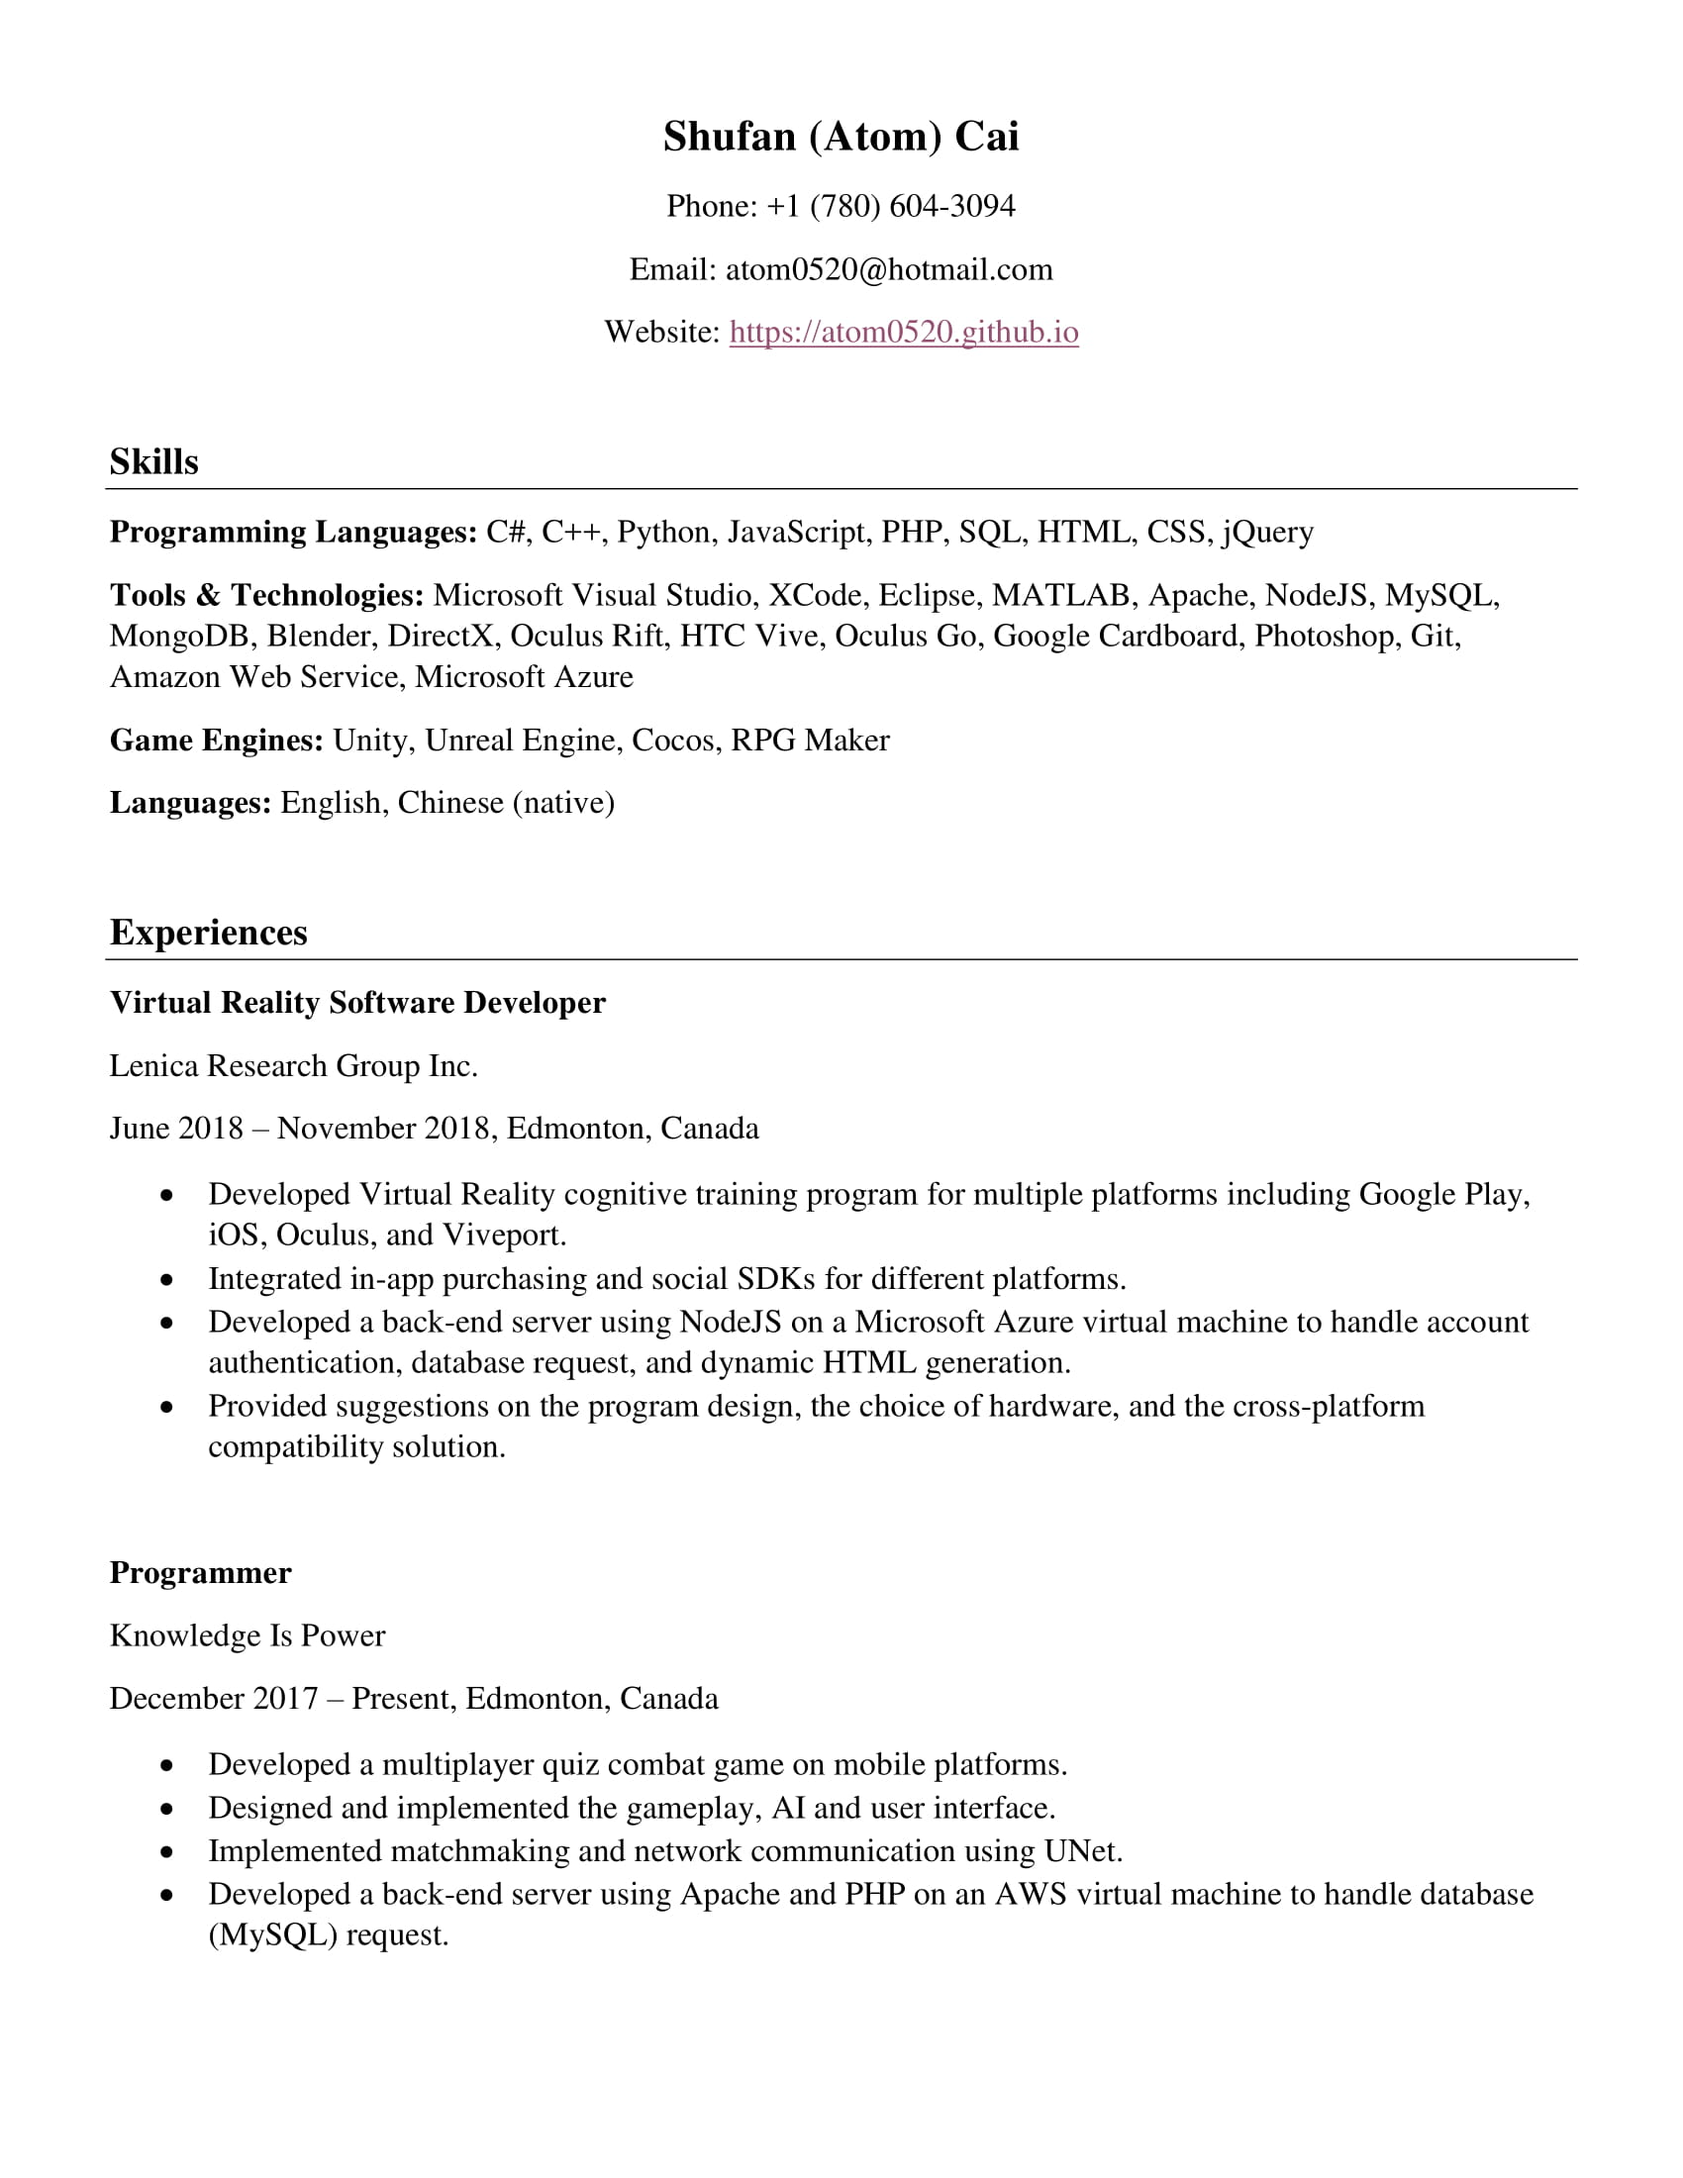
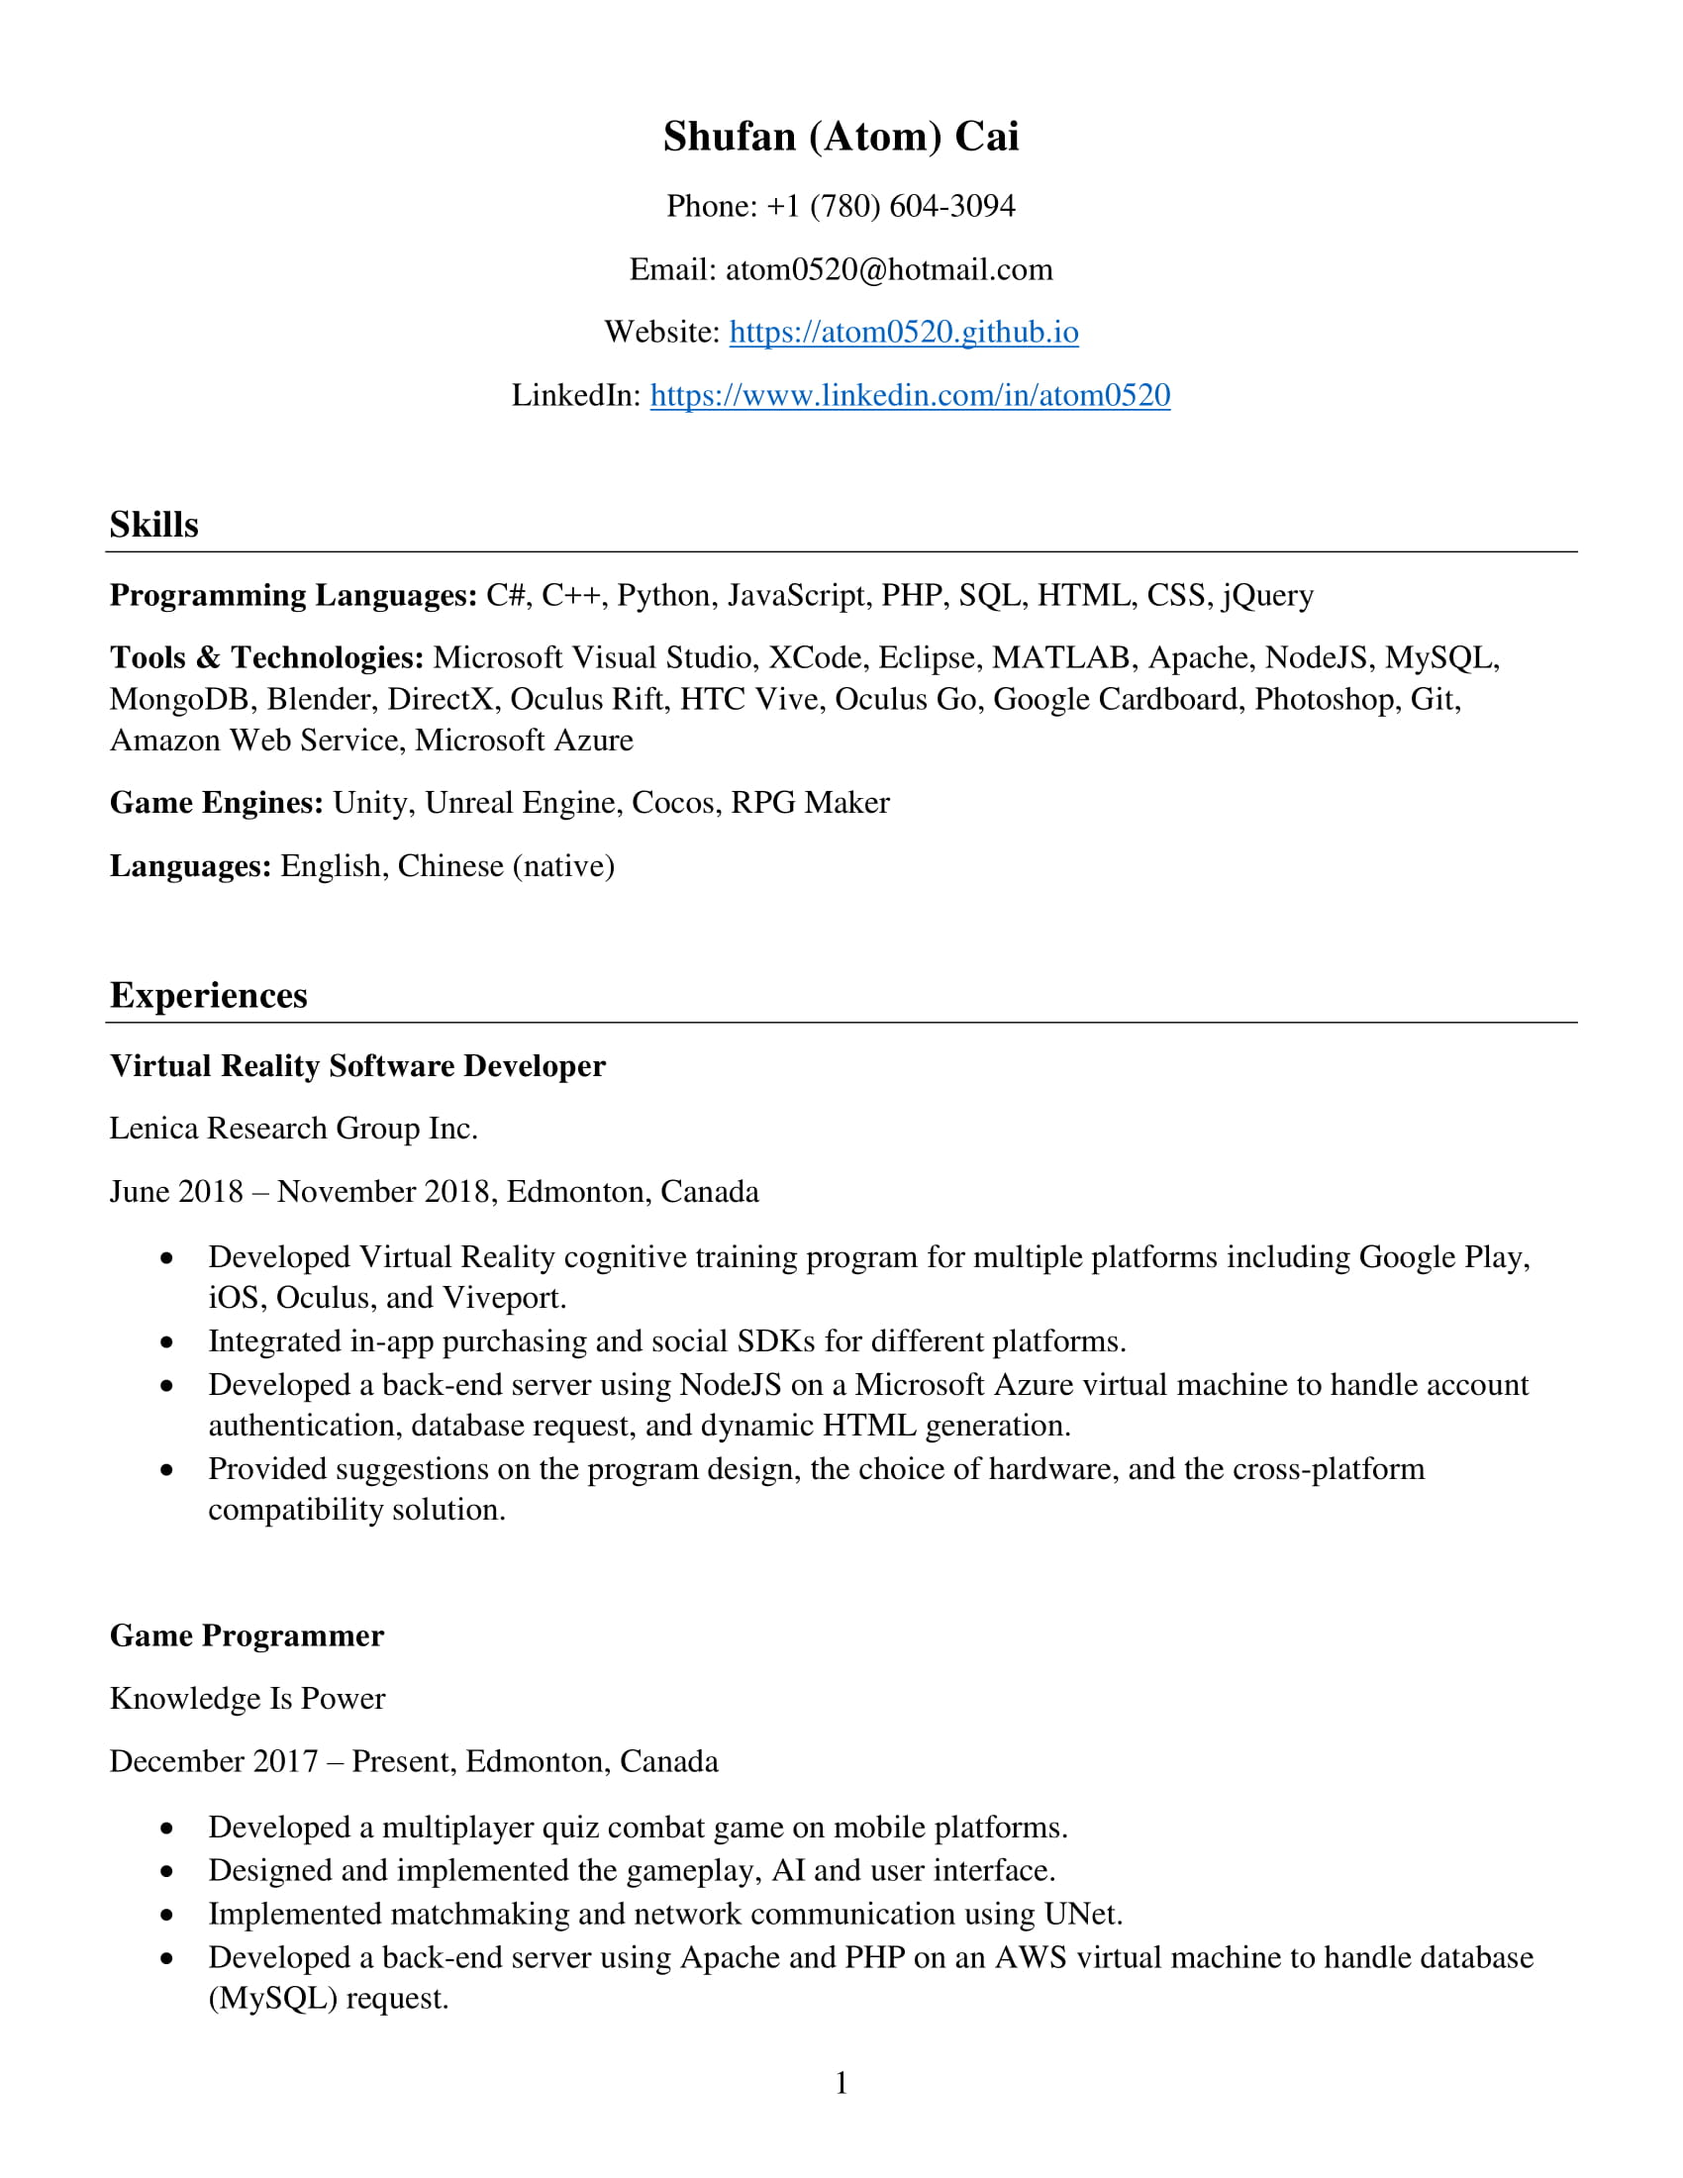
Updated CV.

Changed region(s): [[0.0624, 0.1855, 0.9041, 0.9273], [0.4053, 0.1236, 0.6859, 0.1855], [0.3118, 0.1545, 0.3741, 0.1855]]

diff --git a/cv.html b/cv.html
@@ -26,8 +26,8 @@
 	    <div class="container">
 			<div class="row">
                 <div class="col-lg-8 col-lg-offset-2 centered">
-                    <img class="img-responsive" src="Images/CV/cv_1.jpg" alt="" style="margin-top:-40px; margin-bottom:-80px">
-                    <img class="img-responsive" src="Images/CV/cv_2.jpg" alt="" style="margin-top:-80px; margin-bottom:-64px">
+                    <img class="img-responsive" src="Images/CV/cv_1.jpg" alt="" style="margin-top:-40px; margin-bottom:-64px">
+                    <img class="img-responsive" src="Images/CV/cv_2.jpg" alt="" style="margin-top:-64px; margin-bottom:-64px">
                     <img class="img-responsive" src="Images/CV/cv_3.jpg" alt="" style="margin-top:-64px; margin-bottom:-112px">
                     
                 </div>
@@ -37,7 +37,7 @@
       <div class="row">
           <div class="col-sm-6 col-sm-offset-3">
               <h4>PDF version download link</h4>
-              <a href="https://drive.google.com/uc?export=download&id=1q-nQ9amxyf0UOgdkZaVN_nyzUGiYLucH">
+              <a href="https://drive.google.com/uc?export=download&id=1Pfn4QoCc7uLs5x80DO8MrEdqANDATqdI">
                 CurriculumVitae.pdf
               </a>
              

diff --git a/Includes/header.html b/Includes/header.html
@@ -6,8 +6,8 @@
                 <span class="icon-bar"></span>
                 <span class="icon-bar"></span>
             </button>          
-            <span class="navbar-brand pull-left">Atom's Wonderland</span>
-            <a class="navbar-logo pull-right" style="margin-left:-4px; margin-top:-4px"><img style ="width:56px" src="Images/sun.gif" alt=""></a>
+            <span class="navbar-brand pull-left">Atom's Wonderland <a><img style="width:48px; margin-left:-2px; margin-top:-6px" src="Images/sun.gif" class="responsive" alt=""></a></span>
+            
         </div>
         <div class="navbar-collapse collapse">
             <ul class="nav navbar-nav navbar-right">
